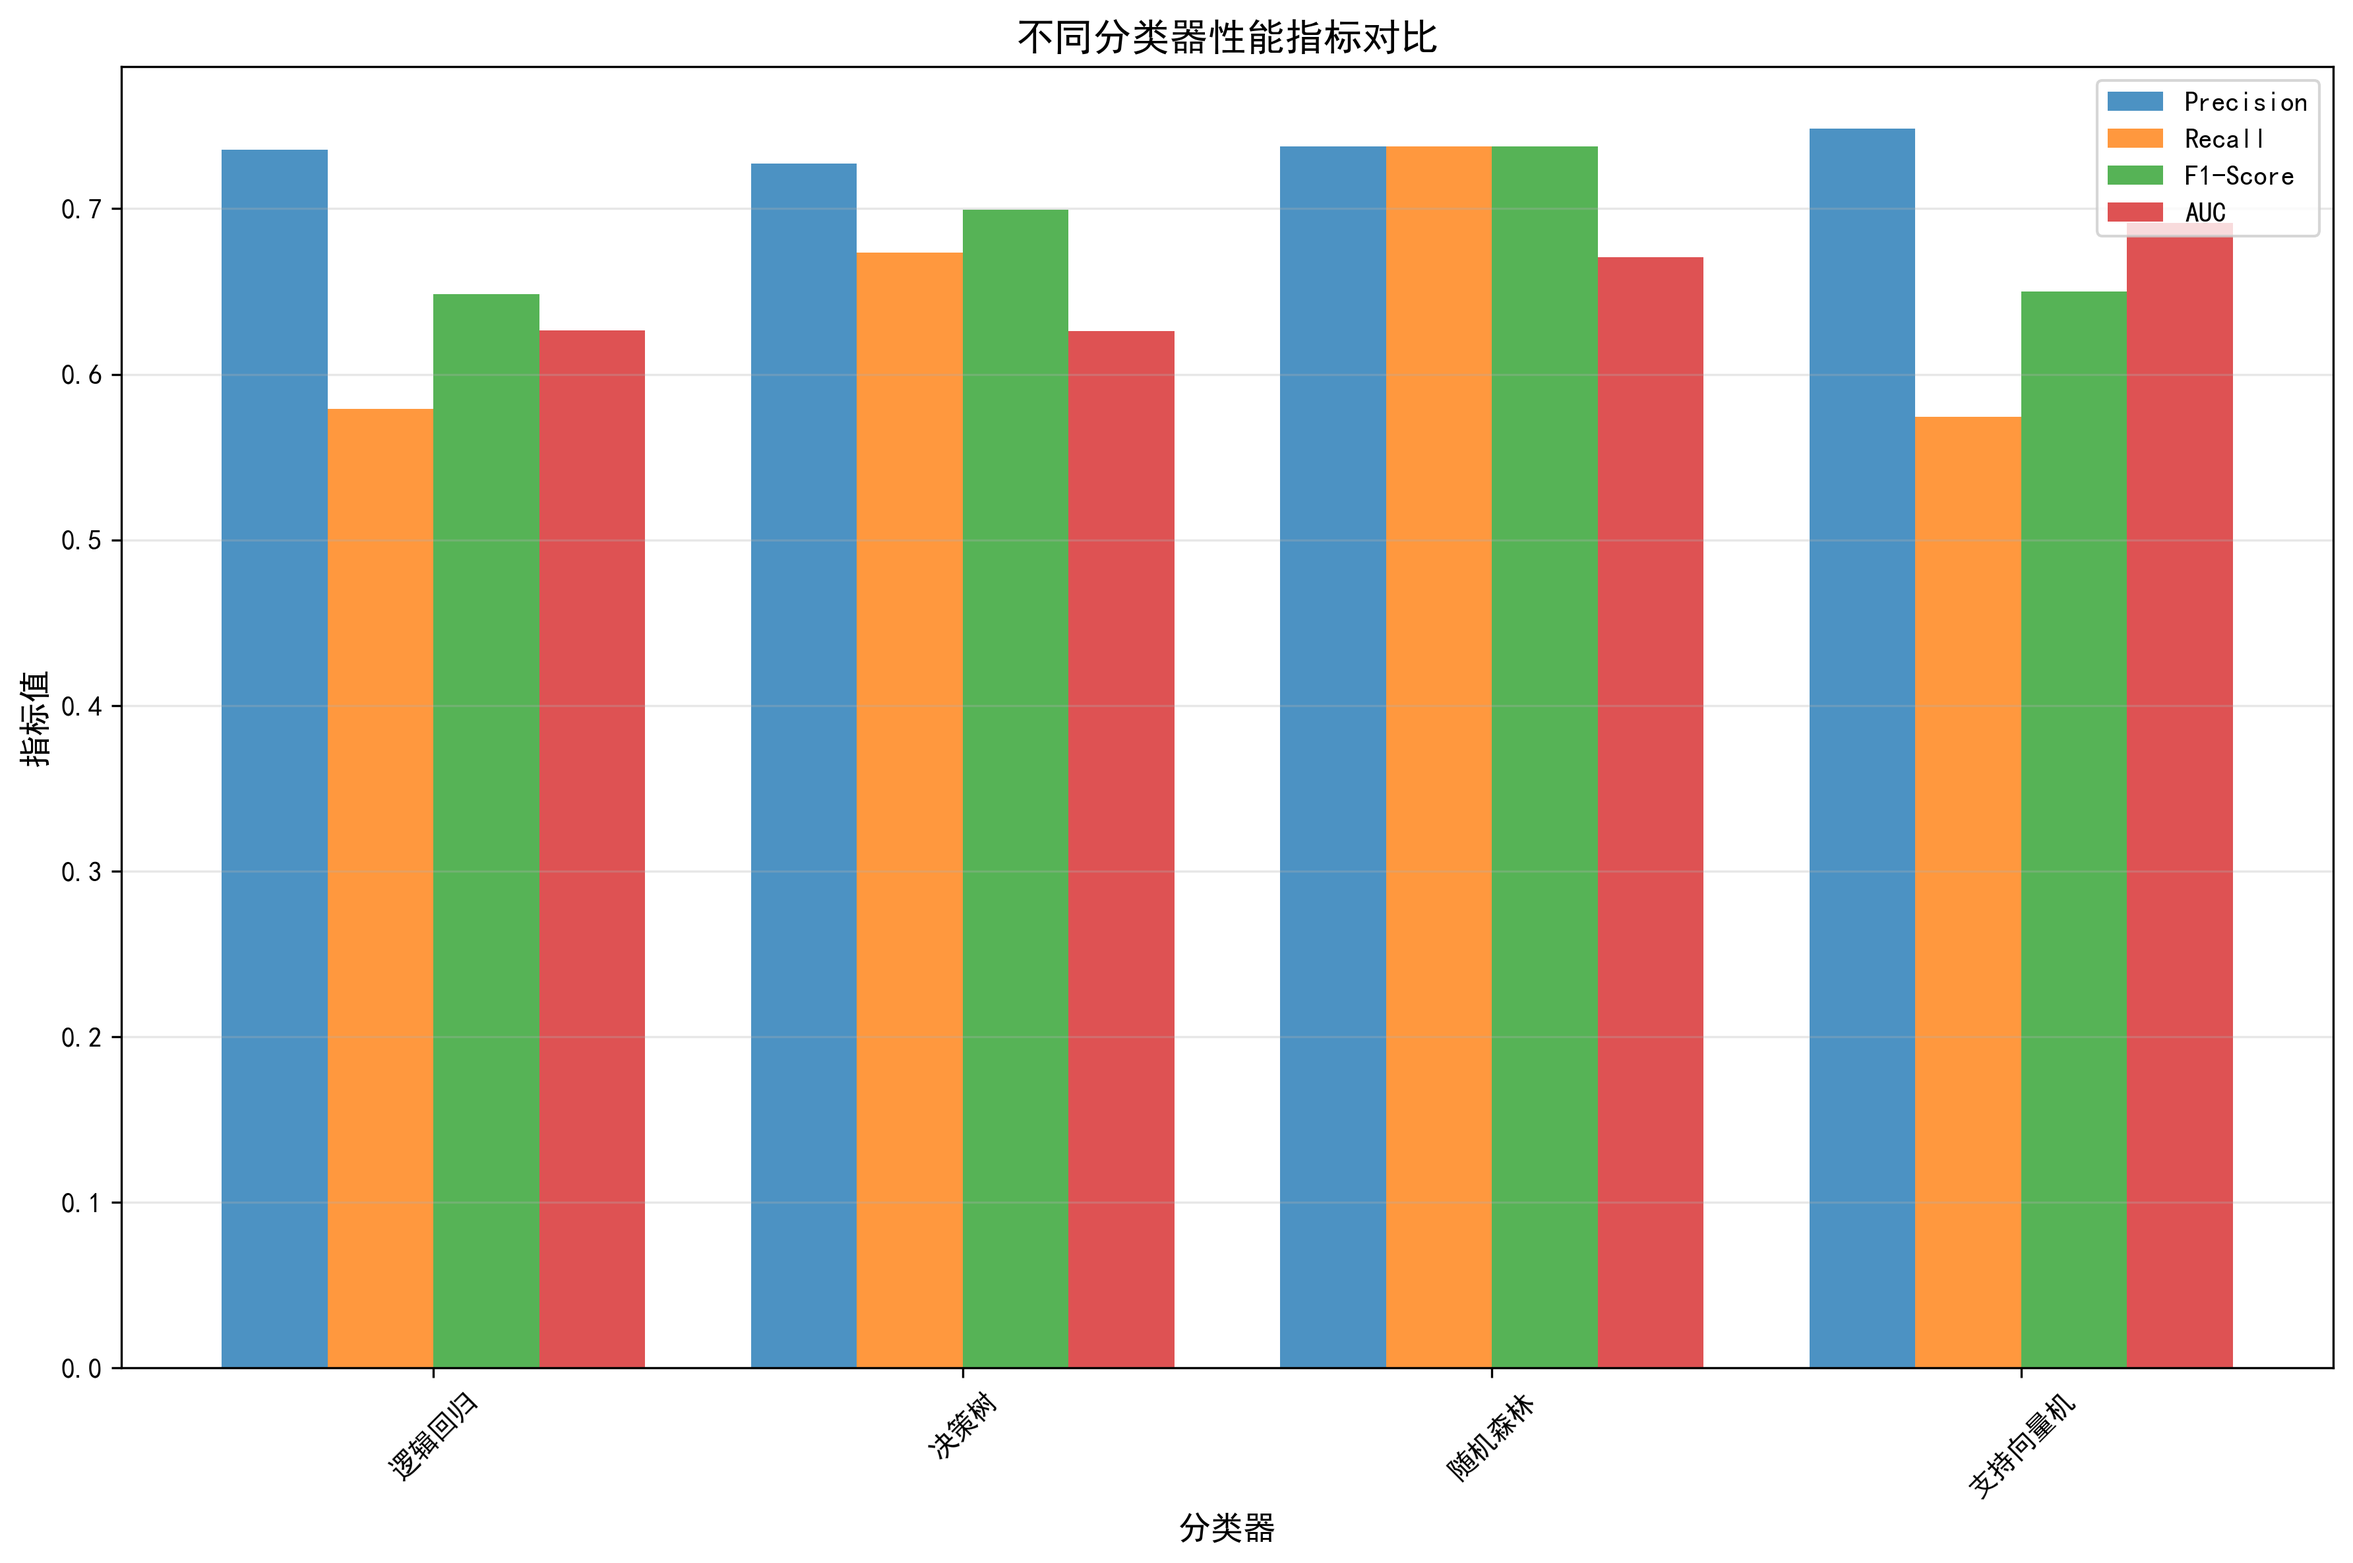
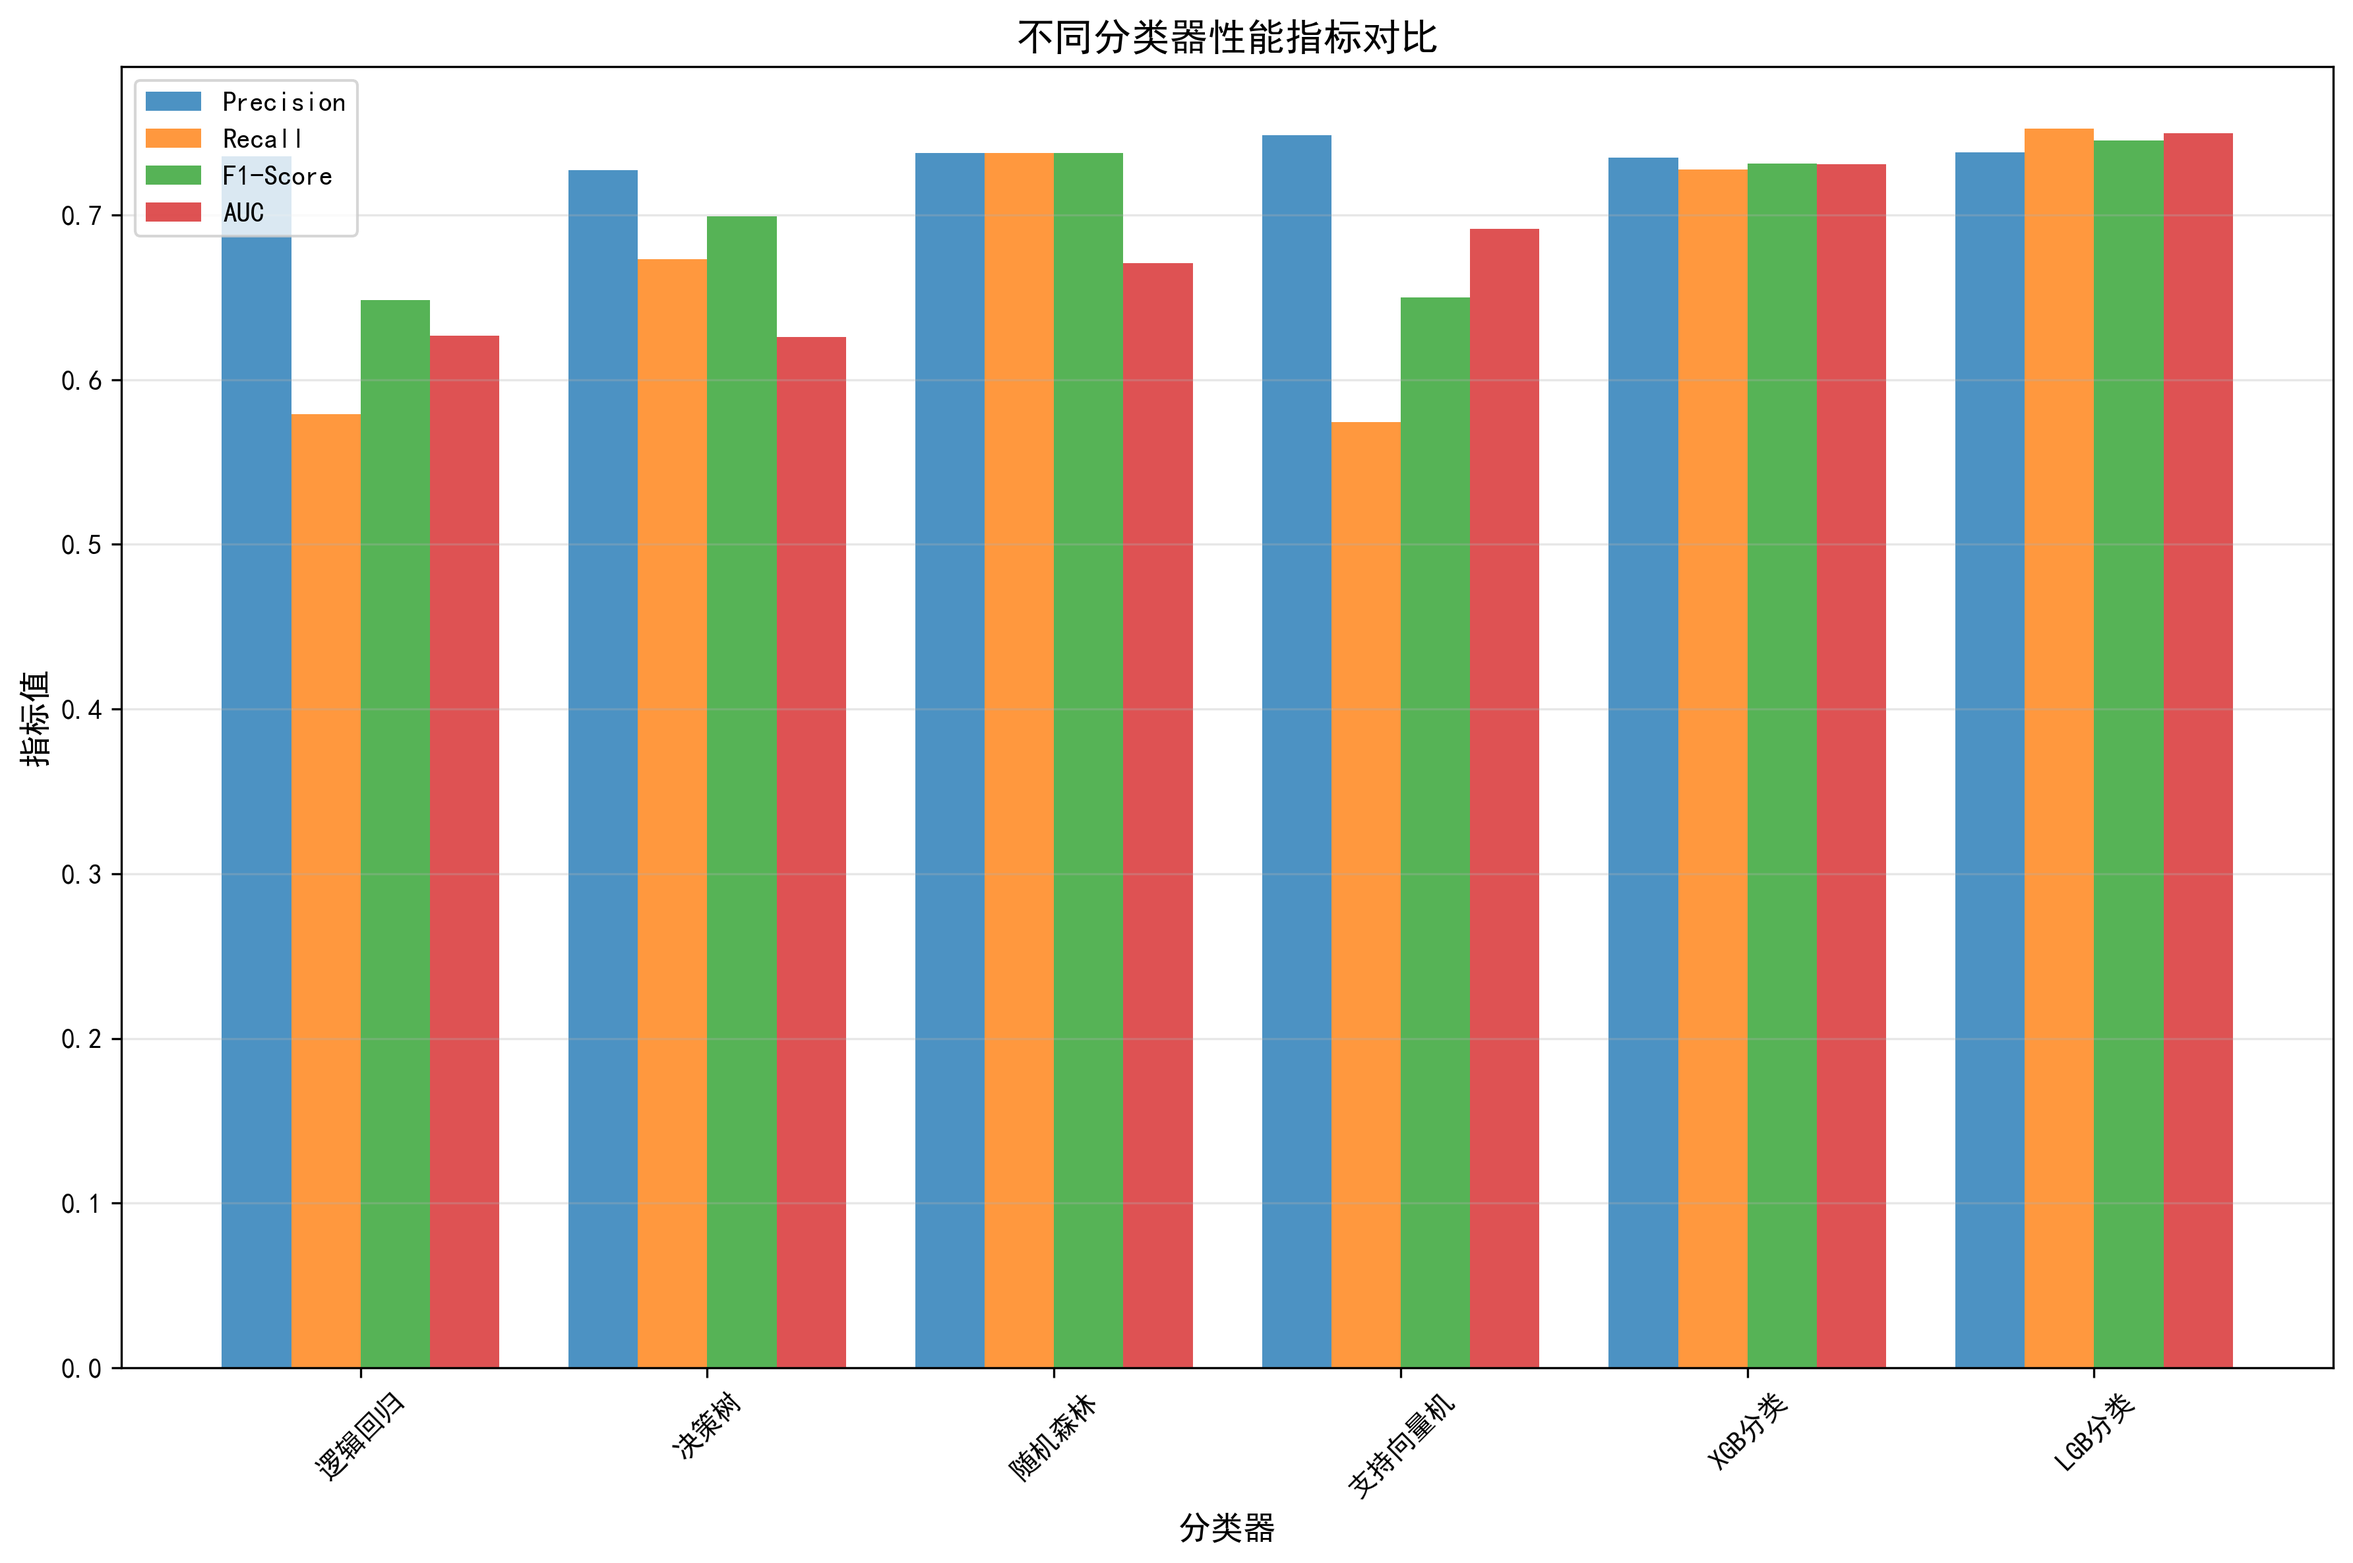
up

diff --git a/classfication.py b/classfication.py
@@ -16,6 +16,8 @@ from sklearn.metrics import (
 from imblearn.over_sampling import SMOTE
 from imblearn.pipeline import Pipeline as ImbPipeline
 import warnings
+import xgboost as xgb
+import lightgbm as lgb
 
 warnings.filterwarnings('ignore')
 
@@ -32,6 +34,7 @@ os.makedirs(FIGURE_DIR, exist_ok=True)
 plt.rcParams['font.sans-serif'] = ['SimHei']
 plt.rcParams['axes.unicode_minus'] = False
 
+
 def load_and_preprocess_data():
     df = pd.read_csv(DATA_PATH)
     X = df.drop(['filename', 'is_buggy', 'bug_count'], axis=1)
@@ -44,6 +47,7 @@ def load_and_preprocess_data():
 
     return X_train, X_test, y_train, y_test, feature_names
 
+
 def build_models():
     feature_engineering = [
         ('scaler', StandardScaler()),
@@ -54,14 +58,17 @@ def build_models():
         "逻辑回归": LogisticRegression(random_state=RANDOM_STATE, max_iter=1000),
         "决策树": DecisionTreeClassifier(random_state=RANDOM_STATE),
         "随机森林": RandomForestClassifier(random_state=RANDOM_STATE, n_estimators=100),
-        "支持向量机": SVC(random_state=RANDOM_STATE, probability=True, kernel='rbf')
+        "支持向量机": SVC(random_state=RANDOM_STATE, probability=True, kernel='rbf'),
+        "XGB分类": xgb.XGBClassifier(random_state=RANDOM_STATE, n_estimators=100, use_label_encoder=False,
+                                     eval_metric='logloss'),
+        "LGB分类": lgb.LGBMClassifier(random_state=RANDOM_STATE, n_estimators=100)
     }
 
     pipelines = {}
     for name, clf in classifiers.items():
         pipelines[name] = ImbPipeline([
             *feature_engineering,
-            ('smote', SMOTE(random_state=RANDOM_STATE)),
+            ('smote', SMOTE(random_state=RANDOM_STATE)),  # 已有上采样，保留
             ('classifier', clf)
         ])
 
@@ -71,6 +78,9 @@ def build_models():
 def train_and_evaluate(pipelines, X_train, X_test, y_train, y_test, feature_names):
     results = {}
     for name, pipeline in pipelines.items():
+        print(f"\n{'=' * 50}")
+        print(f"模型: {name}")
+        print(f"{'=' * 50}")
         pipeline.fit(X_train, y_train)
 
         y_pred = pipeline.predict(X_test)
@@ -98,12 +108,57 @@ def train_and_evaluate(pipelines, X_train, X_test, y_train, y_test, feature_name
     results_df = pd.DataFrame(results).T
     results_df = results_df[['Precision', 'Recall', 'F1-Score', 'AUC']]
 
+    print(f"\n{'=' * 50}")
+    print("所有模型性能对比:")
+    print(results_df.round(4))
+
     results_df.to_csv("./classification_results.csv", encoding='utf-8-sig')
 
     return results, results_df, feature_names
 
 
-def visualize_results(results, results_df, X_test, y_test, feature_names):
+def plot_feature_importance(results, feature_names, X_train, y_train):
+    best_model_name = max(results.keys(), key=lambda x: results[x]['F1-Score'])
+    best_pipeline = results[best_model_name]['pipeline']
+
+    selector = best_pipeline.named_steps['selector']
+    selected_feature_indices = selector.get_support(indices=True)
+    selected_feature_names = [feature_names[i] for i in selected_feature_indices]
+
+    classifier = best_pipeline.named_steps['classifier']
+
+    if hasattr(classifier, 'feature_importances_'):
+        importances = classifier.feature_importances_
+    else:
+        X_processed = best_pipeline.named_steps['smote'].fit_resample(
+            best_pipeline.named_steps['selector'].transform(
+                best_pipeline.named_steps['scaler'].transform(X_train)
+            ), y_train
+        )[0]
+        result = permutation_importance(
+            classifier, X_processed, y_train, n_repeats=10,
+            random_state=RANDOM_STATE, n_jobs=-1
+        )
+        importances = result.importances_mean
+
+    fig, ax = plt.subplots(figsize=(12, 8))
+    sorted_idx = np.argsort(importances)
+
+    ax.barh(range(len(sorted_idx)), importances[sorted_idx], align='center', color='#ff7f0e', alpha=0.8)
+    ax.set_yticks(range(len(sorted_idx)))
+    ax.set_yticklabels([selected_feature_names[i] for i in sorted_idx])
+    ax.set_xlabel('特征重要性', fontsize=12)
+    ax.set_title(f'{best_model_name} - 特征重要性排名', fontsize=14, fontweight='bold')
+    ax.grid(axis='x', alpha=0.3)
+
+    for i, v in enumerate(importances[sorted_idx]):
+        ax.text(v + 0.001, i, f'{v:.4f}', va='center', fontsize=10)
+
+    plt.tight_layout()
+    plt.savefig(os.path.join(FIGURE_DIR, 'feature_importance.png'), dpi=300, bbox_inches='tight')
+
+
+def visualize_results(results, results_df, X_test, y_test, feature_names, X_train, y_train):
     fig, ax = plt.subplots(figsize=(12, 8))
     metrics = ['Precision', 'Recall', 'F1-Score', 'AUC']
     x = np.arange(len(results_df.index))
@@ -124,7 +179,6 @@ def visualize_results(results, results_df, X_test, y_test, feature_names):
     plt.savefig(os.path.join(FIGURE_DIR, 'metrics_comparison.png'), dpi=300, bbox_inches='tight')
 
     best_clf_name = results_df['F1-Score'].idxmax()
-
     best_results = results[best_clf_name]
     cm = confusion_matrix(y_test, best_results['y_pred'])
 
@@ -152,14 +206,15 @@ def visualize_results(results, results_df, X_test, y_test, feature_names):
     plt.tight_layout()
     plt.savefig(os.path.join(FIGURE_DIR, 'roc_curves.png'), dpi=300, bbox_inches='tight')
 
+    plot_feature_importance(results, feature_names, X_train, y_train)
+
+
 def main():
     X_train, X_test, y_train, y_test, feature_names = load_and_preprocess_data()
-
     pipelines = build_models()
-
     results, results_df, feature_names = train_and_evaluate(pipelines, X_train, X_test, y_train, y_test, feature_names)
+    visualize_results(results, results_df, X_test, y_test, feature_names, X_train, y_train)  # 传递X_train和y_train
 
-    visualize_results(results, results_df, X_test, y_test, feature_names)
 
 if __name__ == "__main__":
     main()

diff --git a/regression.py b/regression.py
@@ -12,6 +12,10 @@ from sklearn.linear_model import LinearRegression
 from sklearn.metrics import r2_score, mean_squared_error
 from sklearn.inspection import permutation_importance
 import warnings
+import xgboost as xgb
+import lightgbm as lgb
+from imblearn.over_sampling import RandomOverSampler  # 回归任务上采样
+from imblearn.pipeline import Pipeline as ImbPipeline  # 支持采样的Pipeline
 
 warnings.filterwarnings('ignore')
 
@@ -28,6 +32,7 @@ os.makedirs(FIGURE_DIR, exist_ok=True)
 plt.rcParams['font.sans-serif'] = ['SimHei']
 plt.rcParams['axes.unicode_minus'] = False
 
+
 def load_and_preprocess_data():
     df = pd.read_csv(DATA_PATH)
     X = df.drop(['filename', 'is_buggy', 'bug_count'], axis=1)
@@ -39,6 +44,7 @@ def load_and_preprocess_data():
     )
     return X_train, X_test, y_train, y_test, feature_names
 
+
 def build_models():
     feature_engineering = [
         ('scaler', StandardScaler()),
@@ -49,19 +55,25 @@ def build_models():
         "线性回归": LinearRegression(),
         "决策树回归": DecisionTreeRegressor(random_state=RANDOM_STATE),
         "随机森林回归": RandomForestRegressor(random_state=RANDOM_STATE, n_estimators=100),
-        "支持向量回归": SVR(kernel='rbf')
+        "支持向量回归": SVR(kernel='rbf'),
+        "XGB回归": xgb.XGBRegressor(random_state=RANDOM_STATE, n_estimators=100, objective='reg:squarederror'),
+        "LGB回归": lgb.LGBMRegressor(random_state=RANDOM_STATE, n_estimators=100)
     }
 
     pipelines = {}
     for name, reg in regressors.items():
-        pipelines[name] = Pipeline([
+        # 所有模型都加入上采样
+        pipelines[name] = ImbPipeline([
             *feature_engineering,
+            # ('oversampler', RandomOverSampler(random_state=RANDOM_STATE)),
             ('regressor', reg)
         ])
 
     return pipelines
 
+
 from sklearn.pipeline import Pipeline
+
 
 def train_and_evaluate(pipelines, X_train, X_test, y_train, y_test, feature_names):
     results = {}
@@ -90,11 +102,53 @@ def train_and_evaluate(pipelines, X_train, X_test, y_train, y_test, feature_name
 
     results_df = pd.DataFrame(results).T
     results_df = results_df[['R2 Score', 'MSE', 'RMSE']]
+    print(f"\n{'=' * 50}")
+    print("所有模型性能对比:")
     print(results_df.round(4))
 
     results_df.to_csv("./regression_results.csv", encoding='utf-8-sig')
 
     return results, results_df, feature_names
+
+
+def plot_feature_importance(results, feature_names):
+    best_model_name = max(results.keys(), key=lambda x: results[x]['R2 Score'])
+    best_pipeline = results[best_model_name]['pipeline']
+
+    selector = best_pipeline.named_steps['selector']
+    selected_feature_indices = selector.get_support(indices=True)
+    selected_feature_names = [feature_names[i] for i in selected_feature_indices]
+
+    regressor = best_pipeline.named_steps['regressor']
+
+    if hasattr(regressor, 'feature_importances_'):
+        importances = regressor.feature_importances_
+    else:
+        X_processed = best_pipeline.named_steps['selector'].transform(
+            best_pipeline.named_steps['scaler'].transform(X_train)
+        )
+        result = permutation_importance(
+            regressor, X_processed, y_train, n_repeats=10,
+            random_state=RANDOM_STATE, n_jobs=-1
+        )
+        importances = result.importances_mean
+
+    fig, ax = plt.subplots(figsize=(12, 8))
+    sorted_idx = np.argsort(importances)
+
+    ax.barh(range(len(sorted_idx)), importances[sorted_idx], align='center', color='#1f77b4', alpha=0.8)
+    ax.set_yticks(range(len(sorted_idx)))
+    ax.set_yticklabels([selected_feature_names[i] for i in sorted_idx])
+    ax.set_xlabel('特征重要性', fontsize=12)
+    ax.set_title(f'{best_model_name} - 特征重要性排名', fontsize=14, fontweight='bold')
+    ax.grid(axis='x', alpha=0.3)
+
+    for i, v in enumerate(importances[sorted_idx]):
+        ax.text(v + 0.001, i, f'{v:.4f}', va='center', fontsize=10)
+
+    plt.tight_layout()
+    plt.savefig(os.path.join(FIGURE_DIR, 'feature_importance.png'), dpi=300, bbox_inches='tight')
+
 
 def visualize_results(results, results_df, X_test, y_test, feature_names):
     fig, ax = plt.subplots(figsize=(12, 8))
@@ -121,7 +175,6 @@ def visualize_results(results, results_df, X_test, y_test, feature_names):
     y_pred = best_results['y_pred']
 
     fig, ax = plt.subplots(figsize=(10, 8))
-
     ax.scatter(y_test, y_pred, alpha=0.6, color='#1f77b4', label='预测值')
 
     max_val = max(y_test.max(), y_pred.max())
@@ -149,8 +202,11 @@ def visualize_results(results, results_df, X_test, y_test, feature_names):
     plt.tight_layout()
     plt.savefig(os.path.join(FIGURE_DIR, 'residual_plot.png'), dpi=300, bbox_inches='tight')
 
+    plot_feature_importance(results, feature_names)
+
 
 def main():
+    global X_train, y_train
     X_train, X_test, y_train, y_test, feature_names = load_and_preprocess_data()
     pipelines = build_models()
     results, results_df, feature_names = train_and_evaluate(pipelines, X_train, X_test, y_train, y_test, feature_names)

diff --git a/preprocess.py b/preprocess.py
@@ -39,23 +39,6 @@ def get_target_version_commit(repo, target_version):
     return target_commit
 
 
-def get_target_version_files(repo, target_commit):  # 修正参数匹配
-    tree = target_commit.tree
-    target_files = []
-
-    def traverse_tree(t):
-        for blob in t:
-            if blob.type == "blob":
-                file_path = blob.path.lower()
-                target_files.append(file_path)
-            elif blob.type == "tree":
-                traverse_tree(blob)
-
-    traverse_tree(tree)
-    target_files = list(set(target_files))
-    print(f"{TARGET_VERSION} 包含 {len(target_files)} 个文件")
-    return target_files
-
 
 def extract_git_features(repo, target_files, target_commit):
     file_stats = defaultdict(lambda: {
